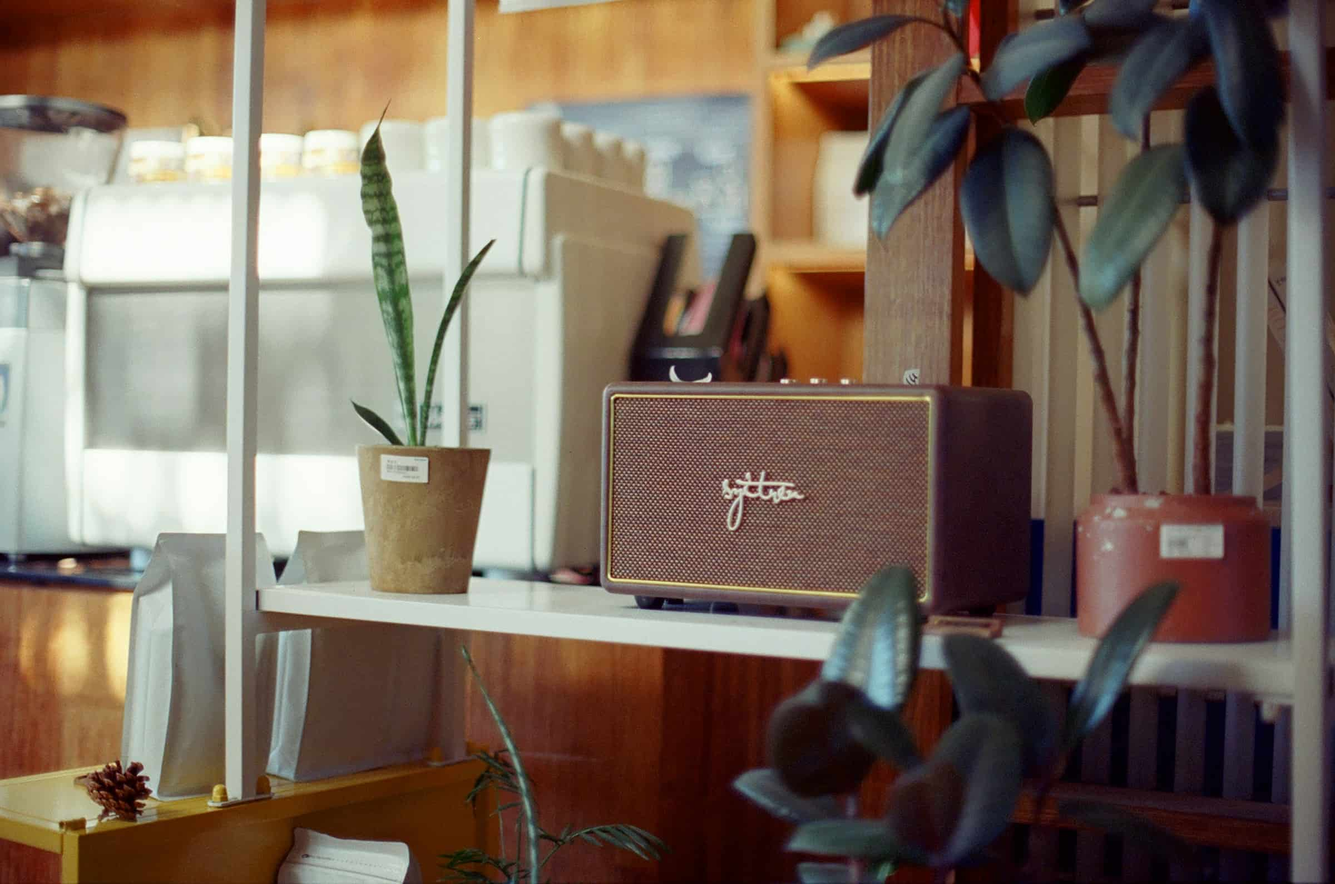
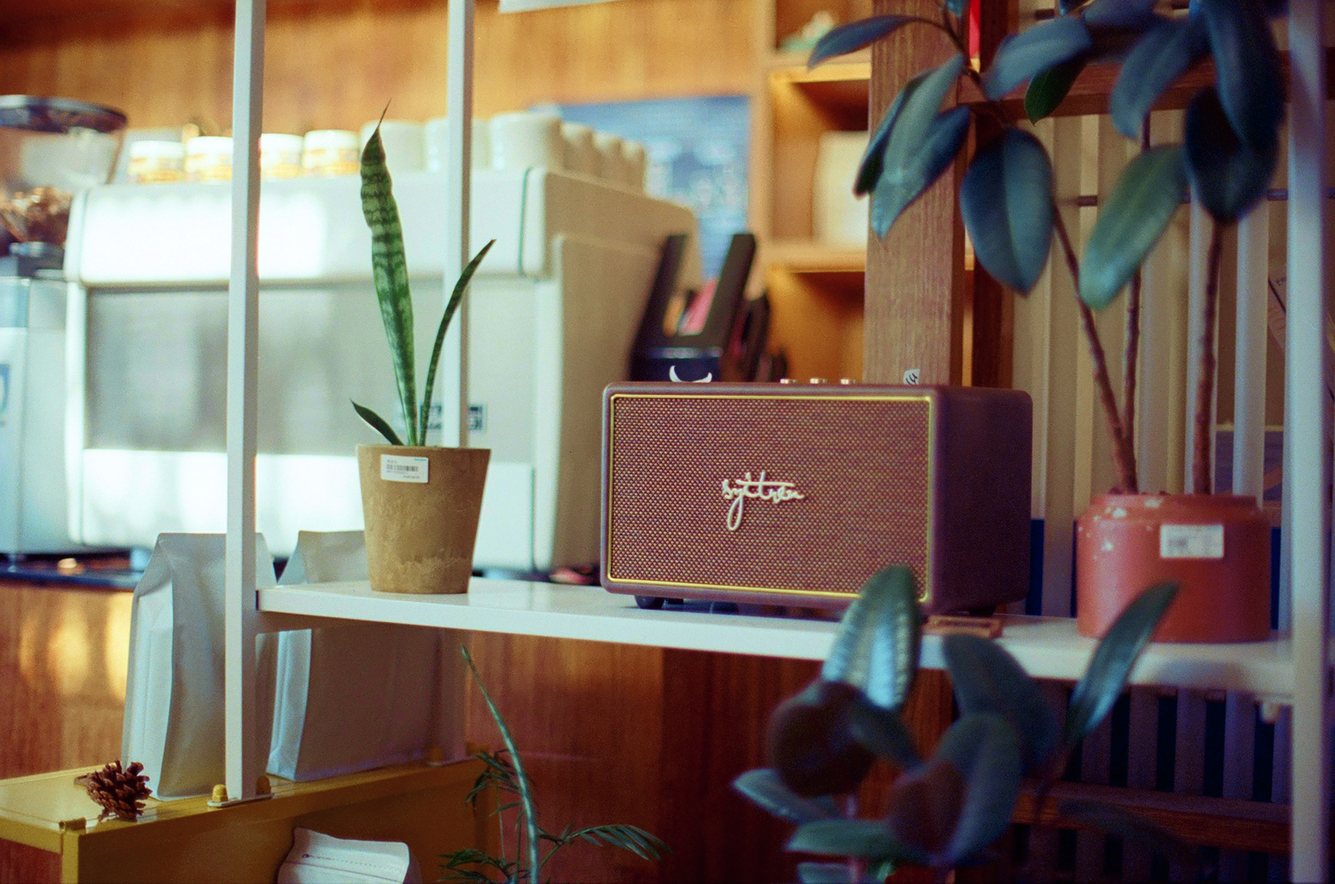
Add new picture and fine tune pixelation effect

diff --git a/src/main.js b/src/main.js
@@ -25,11 +25,10 @@ let imgAspectRatio = 1;
 
 const textureLoader = new THREE.TextureLoader();
 
-const bgImgTexture = await textureLoader.loadAsync("/images/bg.jpg");
+const bgImgTexture = await textureLoader.loadAsync("/images/bg2.jpg");
 
 bgImgTexture.magFilter = THREE.NearestFilter;
 bgImgTexture.minFilter = THREE.NearestFilter;
-bgImgTexture.colorSpace = THREE.SRGBColorSpace;
 
 /**
  * Materials
@@ -68,13 +67,16 @@ const material = new THREE.ShaderMaterial({
         canvas.getBoundingClientRect().height
       ),
     },
-    uGridSize: { value: 28 },
+    // uGridSize: { value: 36 },
+    uGridSize: { value: 36 },
     uMouse: { value: new THREE.Vector2(mouse.x, mouse.y) },
     uTrailPositions: { value: trailPositions },
     uTrailStrengths: { value: trailStrengths },
     uTrailLength: { value: TRAIL_LENGTH },
-    uPixelationRadius: { value: 0.125 },
-    uTrailDecay: { value: 0.9 }, // How fast the trail fades (0.9-0.98 works well)
+    // uPixelationRadius: { value: 0.115 },
+    // uTrailDecay: { value: 0.9 }, // How fast the trail fades
+    uPixelationRadius: { value: 0.095 },
+    uTrailDecay: { value: 0.99 }, // How fast the trail fades
     uTime: { value: 0 },
   },
   vertexShader: vertex,
